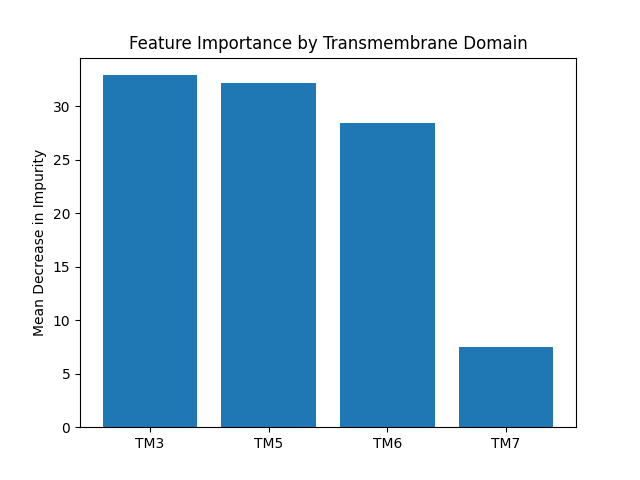
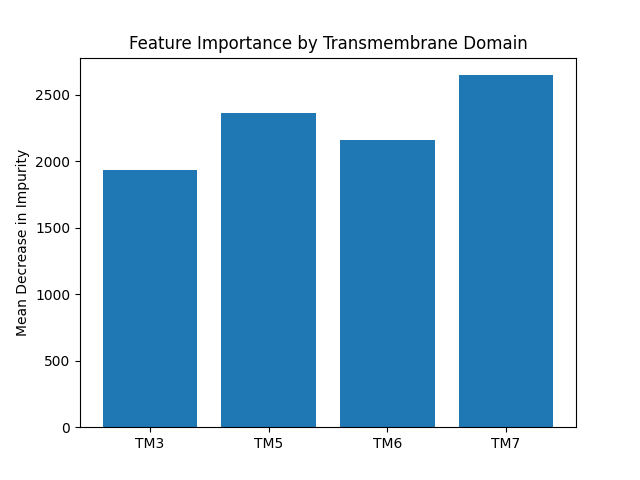
Updated sulfur importance graphs

diff --git a/RF/Feature_Importance/Importance_Graph.py b/RF/Feature_Importance/Importance_Graph.py
@@ -3,7 +3,7 @@
 import math as m
 import matplotlib.pyplot as plt
 
-with open('important_features.txt') as f: 
+with open('sulfur_importance.txt') as f: 
     lines = f.readlines()
 i=0
 values = {'ligand':0, 'sequence':0, 'structure':0}
@@ -32,10 +32,10 @@ fig,ax = plt.subplots()
 plt.bar(list(values.keys()), list(values.values()))
 ax.set_title("Feature Importance by Type")
 plt.ylabel('Mean Decrease in Impurity')
-fig.savefig('Relative_Feature_Importance.png')
+fig.savefig('Relative_Feature_Importance_Sulfur.png')
 
 fig2, ax2 = plt.subplots()
 plt.bar(list(domains.keys()), list(domains.values()))
 ax2.set_title("Feature Importance by Transmembrane Domain")
 plt.ylabel('Mean Decrease in Impurity')
-fig2.savefig('Domain_Importance.png')
+fig2.savefig('Domain_Importance_Sulfur.png')
